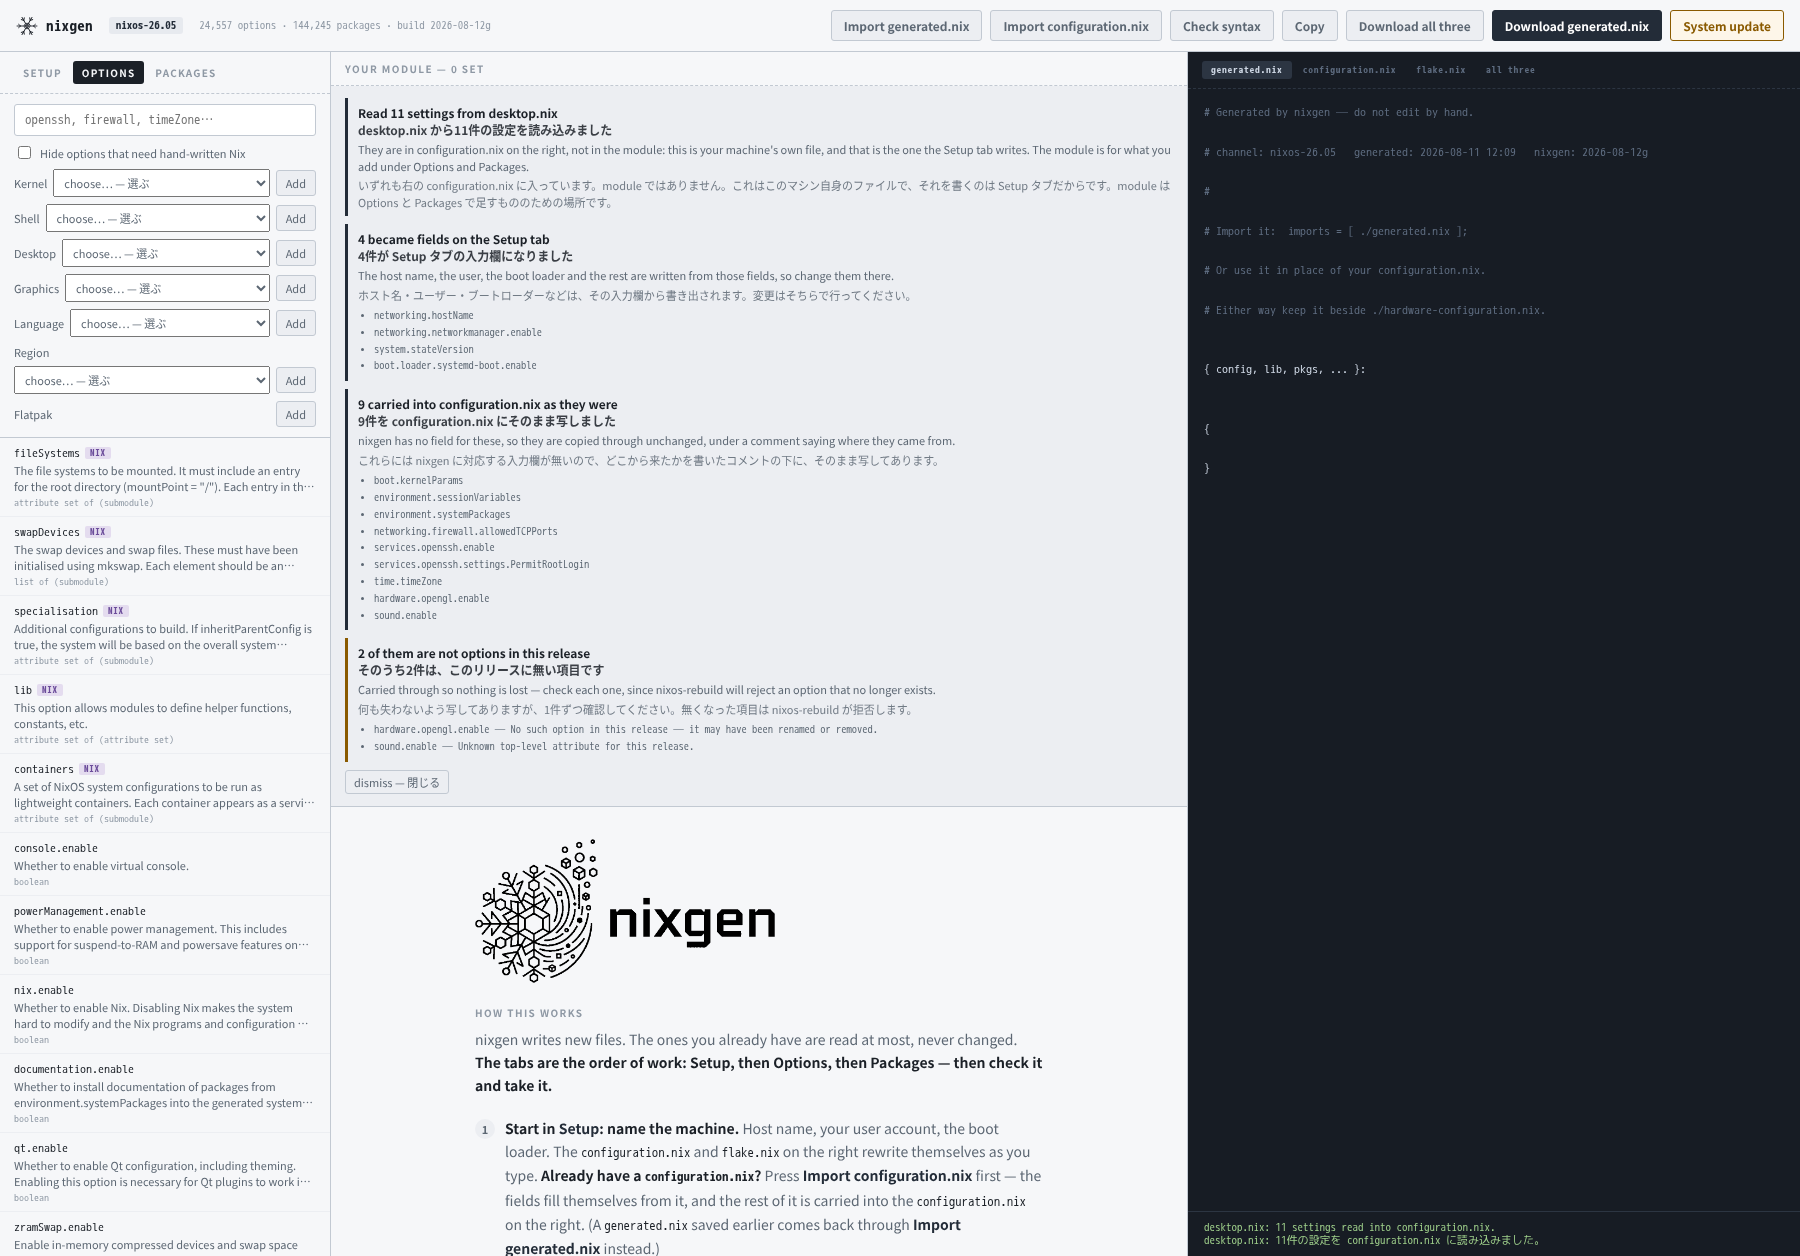
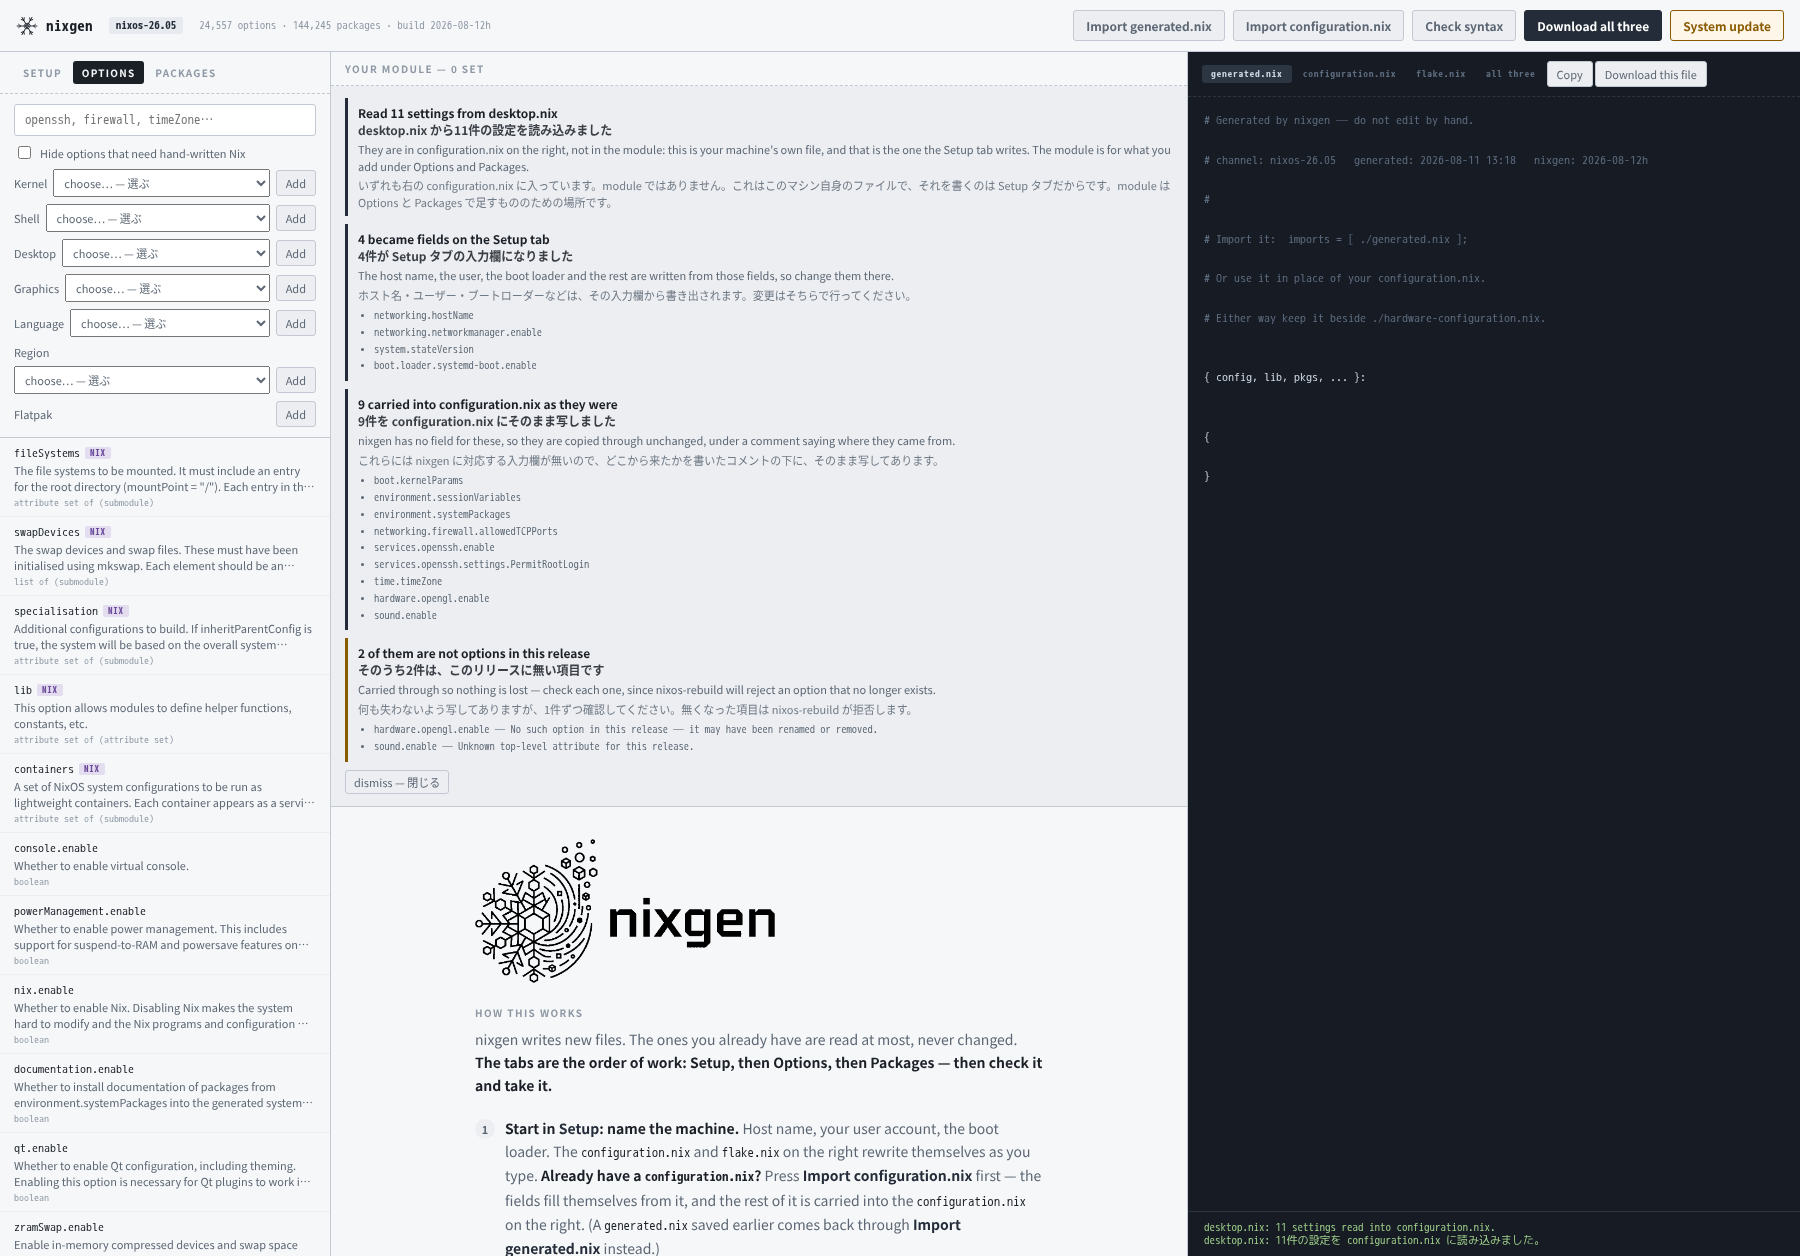
One download in the header, and it stops renaming itself
The primary control read Download generated.nix, then
Download configuration.nix, then Download flake.nix, then the archive,
depending on the file tab — four meanings in one button — and it hid
Download all three whenever the last tab was chosen. Two download
buttons trading places, side by side.

Download all three is now the only download in the header and the
primary button, since it is what the five steps end on. Copy and a new
Download this file moved to the file tab row, beside the tabs that
choose the file they act on; both stand down on `all three`. Taking
generated.nix alone is still one click, so the hand-configured path in
the README keeps working — its wording is updated to the new button.

diff --git a/build/static/index.html b/build/static/index.html
@@ -25,12 +25,12 @@
       <button class="btn" id="btn-import">Import configuration.nix</button>
       <input type="file" id="file" accept=".nix" hidden>
       <button class="btn" id="btn-check">Check syntax</button>
-      <button class="btn" id="btn-copy">Copy</button>
-      <!-- The same archive the `all three` tab hands over, reachable without
-           going to that tab first. It steps aside while that tab is open,
-           where the button beside it already says the same thing. -->
-      <button class="btn" id="btn-dl-all">Download all three</button>
-      <button class="btn primary" id="btn-dl">Download generated.nix</button>
+      <!-- One download, and it is the one the five steps end on. There used
+           to be a second button beside it that renamed itself to whichever
+           file tab was open — four meanings in one control, and it hid this
+           one whenever the `all three` tab was chosen. Taking a single file
+           now lives next to the tabs that choose it. -->
+      <button class="btn primary" id="btn-dl-all">Download all three</button>
       <!-- The one button that changes the machine, so it is the last one and
            does not look like the others. It hands over a command rather than
            doing the work: nixgen has no authentication, and a local server
@@ -421,6 +421,12 @@
                Download button already follows whichever tab is selected, so
                taking all three is the same gesture as taking one of them. -->
           <button class="tab" role="tab" data-file="all three" aria-selected="false">all three</button>
+          <!-- Both of these act on the file you are looking at, so they sit
+               with the tabs that choose it rather than in the header — and
+               neither needs a changing label. Both stand down on `all three`,
+               where there is no single file to copy or take. -->
+          <button class="mini filedl" id="btn-copy">Copy</button>
+          <button class="mini" id="btn-dl-one">Download this file</button>
         </div>
       </header>
       <div class="pane-body"><pre class="nix notranslate" id="out" translate="no"></pre></div>

diff --git a/build/static/app.js b/build/static/app.js
@@ -2,7 +2,7 @@
 
 /* Shown in the header. Bump it whenever this file changes, so "the fix did not
    work" can be told apart from "the old file is still being served". */
-const BUILD = '2026-08-12g';
+const BUILD = '2026-08-12h';
 
 const $  = (s, r = document) => r.querySelector(s);
 const $$ = (s, r = document) => [...r.querySelectorAll(s)];
@@ -566,9 +566,10 @@ function showFile(name) {
   state.file = name;
   $$('.filetabs .tab').forEach(x =>
     x.setAttribute('aria-selected', String(x.dataset.file === name)));
-  $('#btn-dl').textContent = 'Download ' + name;
-  $('#btn-copy').hidden = name === ALL;      // there is nothing here to paste
-  $('#btn-dl-all').hidden = name === ALL;    // the button beside it says this
+  // Both act on the file being shown, so both stand down on `all three`,
+  // where there is no single file to copy or take.
+  $('#btn-copy').hidden = name === ALL;
+  $('#btn-dl-one').hidden = name === ALL;
   paintCode(currentText());
 }
 
@@ -3340,9 +3341,8 @@ async function downloadBundle() {
     `含まれていません。このマシンにあるものをそのまま使ってください。`), 'ok');
 }
 
-$('#btn-dl').addEventListener('click', async () => {
+$('#btn-dl-one').addEventListener('click', async () => {
   if (!await settled()) return;
-  if (state.file === ALL) return downloadBundle();
   saveBlob(new Blob([currentText()], { type: 'text/plain' }), state.file);
 });
 

diff --git a/build/static/app.css b/build/static/app.css
@@ -477,3 +477,10 @@ pre.nix .clash { border-left: 2px solid #a34545; margin-left: -2px; padding-left
    that fills the module pane until the first setting is added. */
 #howto .howto-logo { display: block; width: 100%; max-width: 300px; height: auto;
                      margin: 0 0 22px; }
+
+/* Taking the file you are looking at. It lives in the tab row because that is
+   what chooses the file, which is also why it needs no changing label — the
+   header button it replaces renamed itself four ways. */
+.filetabs { align-items: center; }
+.filetabs .mini { padding: 4px 9px; }
+.filetabs .filedl { margin-left: auto; }

diff --git a/CHANGELOG.md b/CHANGELOG.md
@@ -9,6 +9,21 @@ option counts.
 
 ## English
 
+### build 2026-08-12h
+
+- **The header no longer renames a button as you switch file tabs.** The
+  primary control used to read `Download generated.nix`, then
+  `Download configuration.nix`, then `Download flake.nix`, then the archive —
+  four meanings in one button — and it hid `Download all three` whenever the
+  last tab was chosen. Two download buttons trading places, side by side.
+- **`Download all three` is the one download in the header, and it is
+  primary.** It is what the five steps end on, so it is the button that looks
+  like the way out.
+- **Copy and `Download this file` moved to the file tab row**, beside the tabs
+  that choose the file they act on. Both stand down on `all three`, where
+  there is no single file. Nothing was lost: taking `generated.nix` alone, for
+  a machine you configure by hand, is still one click.
+
 ### Documentation, 2026-08-12b
 
 - **Dropped the "keep nixgen around" step from both READMEs.** Installing it
@@ -1211,6 +1226,12 @@ three of these six showed up in only one of the two.
 ---
 
 ## 日本語
+
+### build 2026-08-12h
+
+- **ファイルタブを切り替えるたびにヘッダーのボタン名が変わるのをやめました。** 主ボタンは `Download generated.nix` → `Download configuration.nix` → `Download flake.nix` → 書庫、と**1つのボタンで4つの意味**を持ち、しかも最後のタブでは `Download all three` を隠していました。**2つのダウンロードボタンが隣り合って席を入れ替えている**状態でした。
+- **ヘッダーのダウンロードは `Download all three` の1つだけにし、主ボタン(青)にしました。** 5つの手順が最後に押すものなので、**出口に見えるボタン**がそれです。
+- **Copy と `Download this file` は、ファイルタブの行に移しました。** 対象のファイルを選ぶタブの隣です。`all three` では単一ファイルが無いので、どちらも引っ込みます。**失われた経路はありません。** 手書き設定のマシン向けに `generated.nix` だけ取ることも、変わらず1クリックです。
 
 ### ドキュメント、2026-08-12b
 

diff --git a/CLAUDE.md b/CLAUDE.md
@@ -268,6 +268,15 @@ at `nixos-rebuild`, which is the least helpful place for it to surface.
   do first. Importing is a branch of step one, and checking earned a step of
   its own rather than a footnote under the list. A new step goes in the place
   it is performed, or it is not a step.
+- **A control that renames itself is four controls.** The header used to hold
+  `Download generated.nix`, which became `Download configuration.nix`,
+  `Download flake.nix`, or the archive depending on the file tab — and hid
+  `Download all three` whenever the last one was chosen. Two download buttons
+  playing musical chairs, next to each other. The header now holds one
+  download, the one the five steps end on, and it is the primary button.
+  **Anything that acts on the file being shown belongs in the file tab row**,
+  where the tabs that choose it are: Copy and `Download this file` live there
+  and both stand down on `all three`. Neither needs a changing label.
 - **The archive is a `.tar.gz` inside a directory, and both halves matter.**
   `tar` and `gzip` are in the NixOS default system path and `unzip` is not, so
   a zip would send someone looking for a package before they could read what

diff --git a/README.ja.md b/README.ja.md
@@ -153,7 +153,7 @@ sudo nixos-rebuild switch
 sudo nixos-rebuild switch --flake /etc/nixos#desktop
 ```
 
-**手書きの configuration.nix を使い続ける場合**は、`generated.nix` だけを受け取ります(**Download generated.nix** ボタン)。自分の `configuration.nix` の隣に置き、`imports` に1行足してください。
+**手書きの configuration.nix を使い続ける場合**は、`generated.nix` だけを受け取ります(ファイルタブの隣の **Download this file** ボタン)。自分の `configuration.nix` の隣に置き、`imports` に1行足してください。
 
 ```nix
 {

diff --git a/README.md b/README.md
@@ -216,7 +216,7 @@ sudo nixos-rebuild switch --flake /etc/nixos#desktop
 ```
 
 **On a machine you already configure by hand**, take only `generated.nix` (the
-**Download generated.nix** button), save it beside your own
+**Download this file** button beside the file tabs), save it beside your own
 `configuration.nix`, and add one line to your `imports` list:
 
 ```nix
